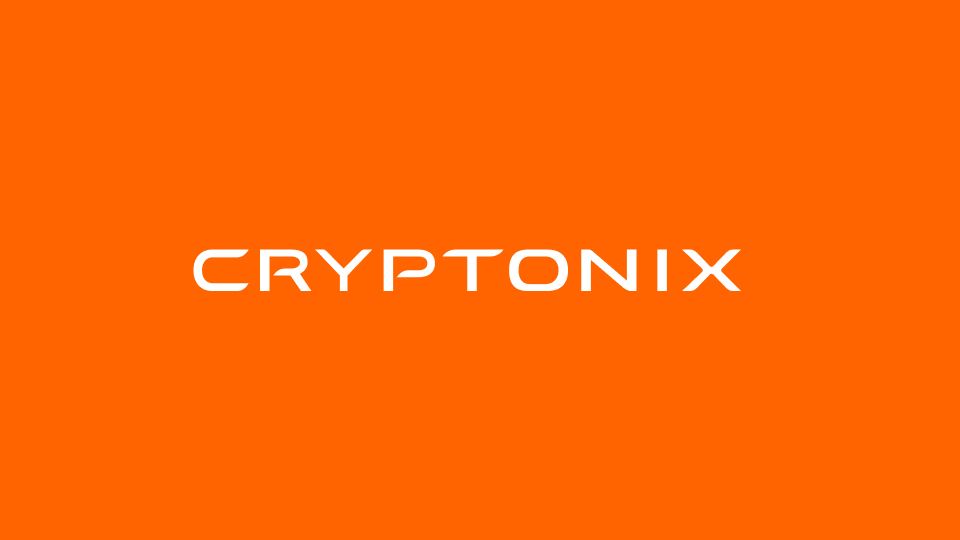
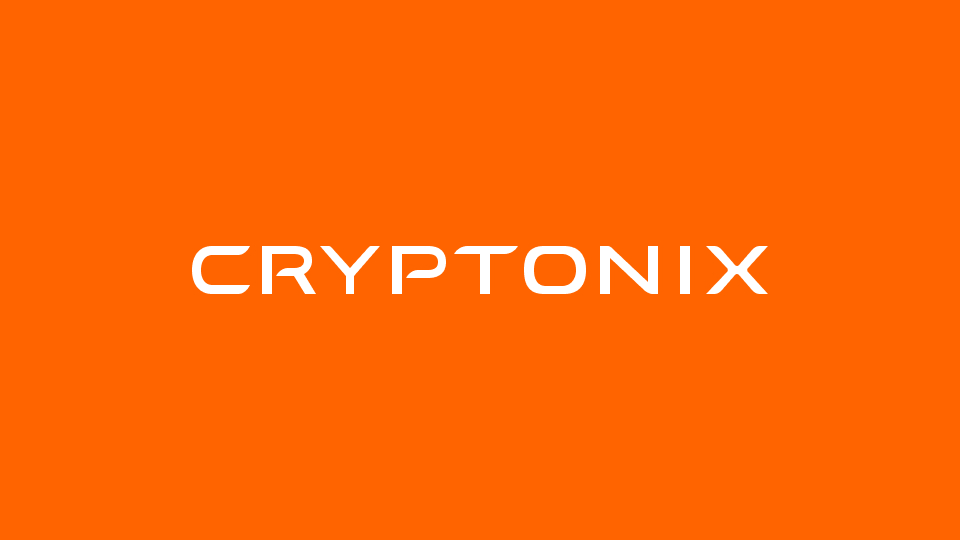
Case covers was updated

Changed region(s): [[0.1875, 0.4444, 0.8125, 0.563]]

diff --git a/index.html b/index.html
@@ -36,38 +36,6 @@
 
         gtag('config', 'G-4X94L96QLE');
     </script>
-    <script>
-        const youtubeApiScript = document.createElement("script");
-        youtubeApiScript.src = "https://www.youtube.com/iframe_api";
-
-        const firstScript = document.getElementsByTagName("script")[0];
-        firstScript.parentNode.insertBefore(youtubeApiScript, firstScript);
-
-        let youtubePlayer;
-        let videoViewTracked = false;
-
-        window.onYouTubeIframeAPIReady = function () {
-            youtubePlayer = new YT.Player("emb-video", {
-                events: {
-                    onStateChange: handleYouTubeStateChange,
-                },
-            });
-        };
-
-        function handleYouTubeStateChange(event) {
-            const startedPlaying = event.data === YT.PlayerState.PLAYING;
-
-            // Send only once per page load.
-            if (startedPlaying && !videoViewTracked) {
-                videoViewTracked = true;
-
-                gtag("event", "video_viewed", {
-                    video_platform: "youtube",
-                    video_title: "Cryptonix portfolio showreel",
-                });
-            }
-        }
-    </script>
 </head>
 
 <body>
@@ -89,9 +57,9 @@
             </div>
             <div class="video-container">
                 <iframe id="emb-video" class="embedded-video"
-                    src="https://www.youtube.com/embed/vOaKJkwBweA?enablejsapi=1"
+                    src="https://www.youtube.com/embed/vOaKJkwBweA?autoplay=1&mute=1&controls=0&rel=0&loop=1"
                     title="Brand Identity for a Crypto Payment Product" frameborder="0"
-                    allow="accelerometer; autoplay; clipboard-write; encrypted-media; gyroscope; picture-in-picture; web-share"
+                    allow="autoplay; encrypted-media"
                     referrerpolicy="strict-origin-when-cross-origin" allowfullscreen>
                 </iframe>
             </div>